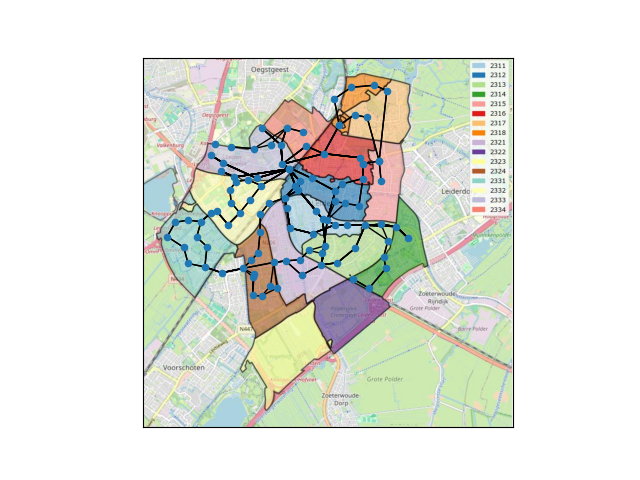
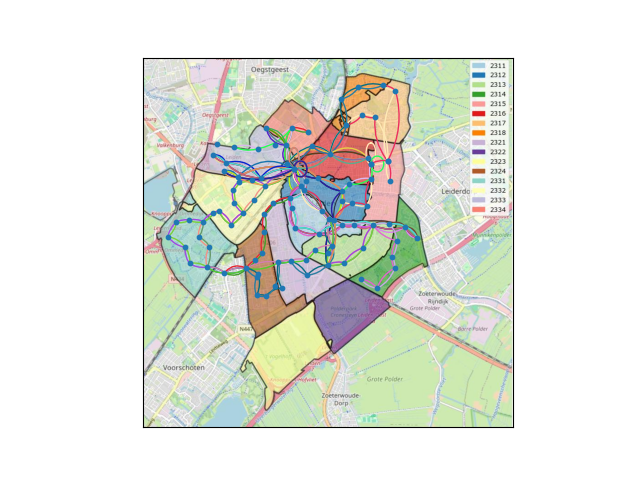
Bending lines

Changed region(s): [[0.25, 0.1562, 0.6562, 0.625]]

diff --git a/imaging.py b/imaging.py
@@ -59,6 +59,7 @@ class Buslijn:
         self.frequentie = frequentie
         '''
         self.haltes = haltes
+        self.color = tuple(np.random.random(size=3))
         Buslijn.instanties.append(self)
 
     def __str__(self):
@@ -90,17 +91,20 @@ def import_busrit(csv_bestand, naam_buslijn: str) -> dict:
 def import_lijnen(csv_bestand):
     # CSV bestand met alle buslijnen importeren
     routes = {}
-    df = pd.read_csv(csv_bestand)
-    for i, row in df.iterrows():
+    routes_df = pd.read_csv(csv_bestand)
+    for i, row in routes_df.iterrows():
         if row['route_ID'] not in routes.keys():
             routes[row['route_ID']] = {}
         routes[row['route_ID']][row['StopID']] =row['traveltime to next stop']
 
-    for lijnID in routes.keys():
-        lijn = Buslijn(row['route_ID'], row['name'], routes[lijnID])
-        for halteID in routes[lijnID].keys(): 
+    lijnen_df = pd.read_csv("Rawdata/routes.csv", sep=';')
+    for i, row in lijnen_df.iterrows():
+        ID = row['ID']
+        lijn = Buslijn(ID, row['name'], routes[ID])
+        for halteID in routes[ID].keys(): 
             halte = zoek_bushalte(halteID)
             halte.lijnen.append(lijn)
+              
         
 
 
@@ -138,7 +142,7 @@ def draw_voronoi():
     
     img = plt.imread('Images/pc4_cropped.png')
     fig, ax = plt.subplots()
-    ax.imshow(img, extent=[4.435435, 4.55486, 52.116441, 52.18667])
+    ax.imshow(img, extent=[4.435435, 4.550754, 52.116441, 52.18667])
     forceAspect(ax)
 
     points = np.array(busstop_coords)
@@ -158,28 +162,48 @@ def make_graph() -> nx.Graph:
         for i in range(1, len(halte_namen)):
             b = zoek_bushalte(halte_namen[i])
             gewicht = lijn.haltes[halte_namen[i-1]]
-            G.add_edge(a, b, weight= gewicht)
+            G.add_edge(a, b, weight= gewicht, color=lijn.color)
             a = b
 
+    
     return G
 
 # -------------------------------------------------------------------------------------------------
 def teken_graaf(G: nx.Graph, naam: str):
-    img = plt.imread('Images/pc4_cropped.png')
-    fig, ax = plt.subplots()
-    ax.imshow(img, extent=[4.435435, 4.55486, 52.116441, 52.18667])
-    forceAspect(ax)
-    
+    # Draw background
     node_pos = {}
     for h in Bushalte.instanties: node_pos.update({h : (h.plek[0], h.plek[1])})
 
+    img = plt.imread('Images/pc4_cropped.png')
+    fig, ax = plt.subplots()
+    ax.imshow(img, extent=[4.435435, 4.550754, 52.116441, 52.18667]) 
+    forceAspect(ax)
+    
+    
     # Teken knopen
+    node_size = 10
     nx.draw_networkx_nodes(G, 
                      pos = node_pos, 
-                     node_size = 20)
+                     node_size = node_size)
     
     # Teken randen 
-    nx.draw_networkx_edges(G, node_pos, arrows=False)
+    edges = list(G.edges(data=True, keys=True))
+    con_style = []
+    colors = nx.get_edge_attributes(G, 'color').values()
+    for i, (u, v, key, data) in enumerate(edges):
+        offset = 0.2 * (key + 1)
+        con_style.append(f"arc3,rad={offset}")
+        #print(f"{(u, v, key)}, Offset: {offset}")
+        #data['connectionstyle'] = f'arc3,rad={offset}'
+        #print(f"{(u, v, key, data['connectionstyle'])}")
+    nx.draw_networkx_edges(G, 
+                           node_pos, 
+                           arrows=True, 
+                           edge_color=colors, 
+                           connectionstyle=con_style,
+                           arrowstyle='-',
+                           node_size= node_size
+                            )
     
     plt.savefig(naam + ".png")
 
@@ -191,12 +215,13 @@ def draw_buslines():
     G = make_graph()
     teken_graaf(G, "Images/buslijnen_pc4")
 
+    
 
 
 # -------------------------------------------------------------------------------------------------
 def main():
     #draw_voronoi()
-    #draw_buslines()
+    draw_buslines()
     
     pass
 
